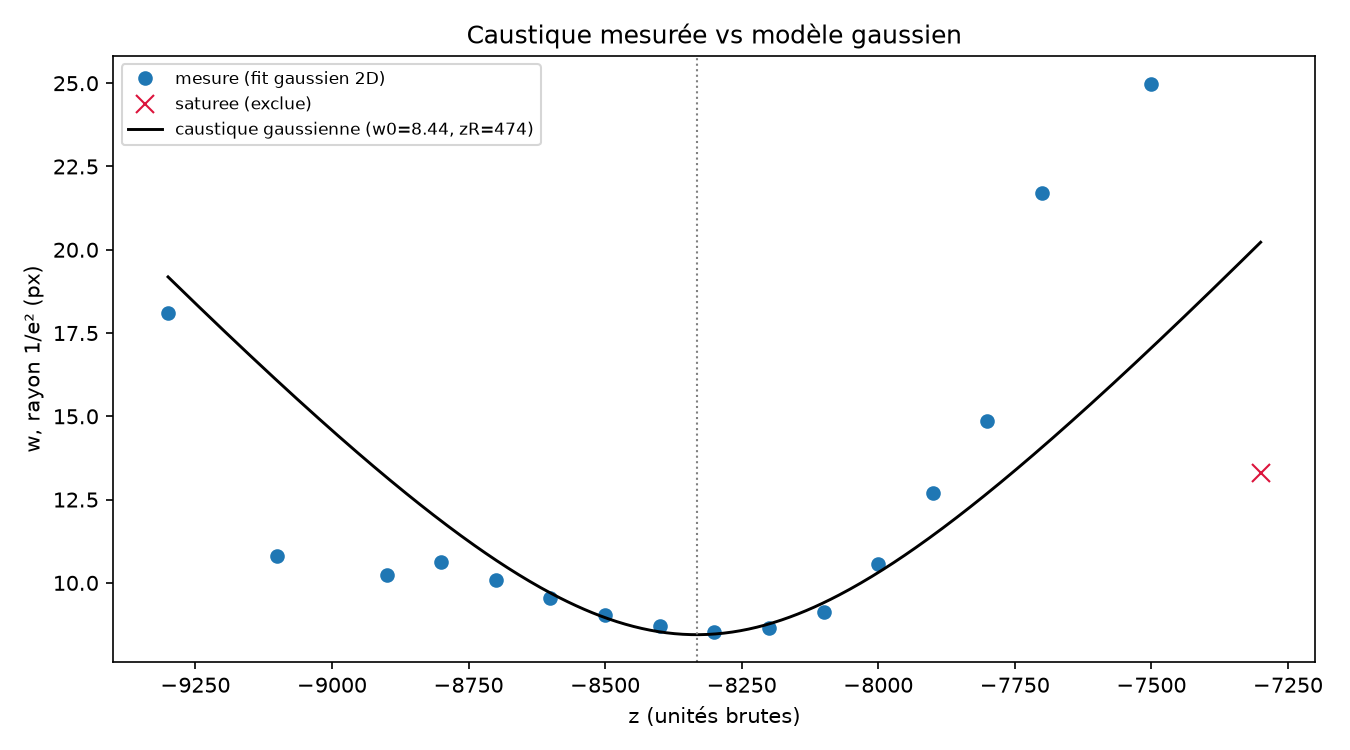
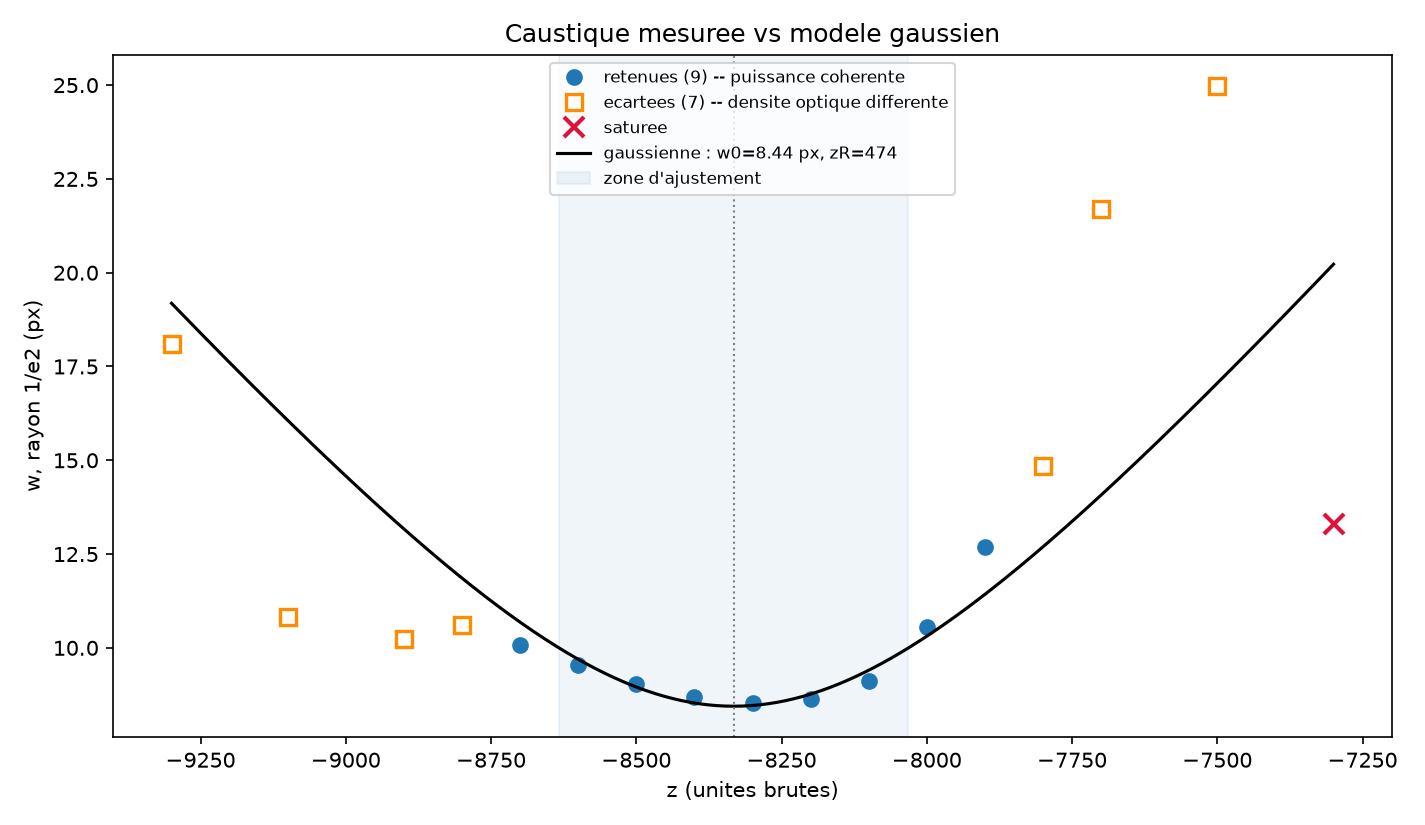
Redraw the caustic figure with the quality-control categories
The figure published before the ND-filter check drew all 17 points with the
same marker, so the seven frames the power check rejects looked like valid
measurements the fit was ignoring. plot_caustic() now takes the validity mask
from power_consistency() and separates three categories -- retained (9),
rejected for inconsistent attenuation (7), saturated (1) -- and shades the
|dz| <= 300 window the caustic is actually fitted over.

This makes the earlier correction visible rather than only stated: the
rejected points are precisely the ones far from focus that drove the
overstated 12.4 asymmetry, and they sit off the curve on both sides (below it
before focus, above it after). The retained points follow the Gaussian
closely inside the fit window and depart from it mildly past z=-8000, which
is the real, factor 2-3 asymmetry.

Fit numbers are unchanged, as expected, since it already used only plateau
frames: w0 = 8.44 +/- 0.14 px, z0 = -8332 +/- 14, zR = 474 +/- 42, rms 0.18 px.

diff --git a/.github/deliverable (3)/sim/fit_beam_profile.py b/.github/deliverable (3)/sim/fit_beam_profile.py
@@ -183,29 +183,48 @@ def calibration_table(fit, wavelength_um=1.030, pixel_candidates=(0.345, 1.0, 3.
     print("\nM2 < 1 impossible -> ces cases excluent la combinaison (p, s).")
 
 
-def plot_caustic(caus, fit=None, pixel_um=None, s_um_per_unit=None, save=None):
-    """w(z) mesurée + ajustement. Si pixel_um et s_um_per_unit sont fournis,
-    les axes passent en µm."""
+def plot_caustic(caus, fit=None, valid=None, pixel_um=None, s_um_per_unit=None,
+                 fit_window=None, save=None):
+    """w(z) mesurée + ajustement, en distinguant les trois catégories d'images.
+
+    `valid` (sortie de power_consistency) sépare les images du plateau de
+    celles écartées pour cause de changement de densité optique : les tracer
+    du même symbole donnerait à croire que l'ajustement ignore des points
+    valables, alors qu'ils sont rejetés pour une raison mesurée.
+    """
     import matplotlib.pyplot as plt
     p = pixel_um or 1.0
     s = s_um_per_unit or 1.0
-    ok = caus["sat"] == 0
-    fig, ax = plt.subplots(figsize=(9, 5))
-    ax.plot(caus["z"][ok] * s, caus["w"][ok] * p, "o", color="tab:blue", label="mesure (fit gaussien 2D)")
-    bad = ~ok
-    if bad.any():
-        ax.plot(caus["z"][bad] * s, caus["w"][bad] * p, "x", color="crimson",
-                ms=9, label="saturee (exclue)")
+    sat = caus["sat"] > 0
+    good = (~sat) if valid is None else valid
+    rejected = (~sat) & (~good)
+
+    fig, ax = plt.subplots(figsize=(9.5, 5.5))
+    ax.plot(caus["z"][good] * s, caus["w"][good] * p, "o", color="tab:blue", ms=7,
+            label=f"retenues ({good.sum()}) -- puissance coherente")
+    if rejected.any():
+        ax.plot(caus["z"][rejected] * s, caus["w"][rejected] * p, "s", mfc="none",
+                mec="darkorange", ms=8, mew=1.6,
+                label=f"ecartees ({rejected.sum()}) -- densite optique differente")
+    if sat.any():
+        ax.plot(caus["z"][sat] * s, caus["w"][sat] * p, "x", color="crimson", ms=10, mew=2,
+                label="saturee")
     if fit:
         zz = np.linspace(caus["z"].min(), caus["z"].max(), 400)
         ax.plot(zz * s, _caustic(zz, fit["w0_px"], fit["z0"], fit["zR"]) * p, "-",
-                color="black", lw=1.4,
-                label=f"caustique gaussienne (w0={fit['w0_px']*p:.2f}, zR={fit['zR']*s:.0f})")
+                color="black", lw=1.5,
+                label=(f"gaussienne : w0={fit['w0_px']*p:.2f}"
+                       f"{' µm' if pixel_um else ' px'}, zR={fit['zR']*s:.0f}"))
         ax.axvline(fit["z0"] * s, ls=":", color="gray", lw=1)
-    unit = "µm" if (pixel_um and s_um_per_unit) else "unités brutes"
-    ax.set_xlabel(f"z ({unit})"); ax.set_ylabel(f"w, rayon 1/e² ({'µm' if pixel_um else 'px'})")
-    ax.set_title("Caustique mesurée vs modèle gaussien")
-    ax.legend(fontsize=8); fig.tight_layout()
+        if fit_window:
+            ax.axvspan((fit["z0"] - fit_window) * s, (fit["z0"] + fit_window) * s,
+                       color="tab:blue", alpha=0.07, label="zone d'ajustement")
+    unit = "µm" if (pixel_um and s_um_per_unit) else "unites brutes"
+    ax.set_xlabel(f"z ({unit})")
+    ax.set_ylabel(f"w, rayon 1/e2 ({'µm' if pixel_um else 'px'})")
+    ax.set_title("Caustique mesuree vs modele gaussien")
+    ax.legend(fontsize=8, loc="upper center")
+    fig.tight_layout()
     if save:
         fig.savefig(save, dpi=150)
     return fig
